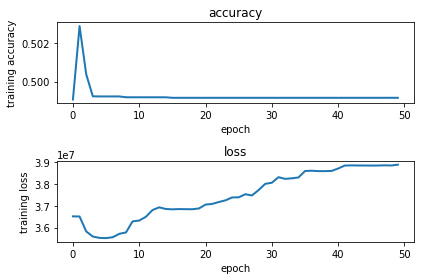
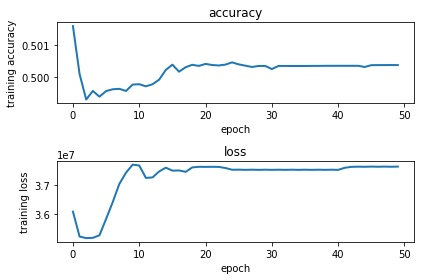
Add files via upload

diff --git a/Bi-Directional-RNN-with-loss-function/train_bi_with_loss_function.py b/Bi-Directional-RNN-with-loss-function/train_bi_with_loss_function.py
@@ -16,7 +16,7 @@ sys.path.append('../Datagenerator')
 from datagenerator2 import DataGenerator2
 
 #list of training data files   
-pkl_list = ['../Data/train' + str(i) + '.pkl' for i in range(1, 2)]
+pkl_list = ['../Data/train' + str(i) + '.pkl' for i in range(1, 3)]
 
 # generator for training set and validation set
 data_generator = DataGenerator2(pkl_list)
@@ -77,8 +77,6 @@ X = tf.placeholder(tf.float32, shape=[None, frames_per_sample, n_features], name
 #Y = tf.placeholder(tf.float32, shape=[(batch_size * frames_per_sample), n_classes], name="labels")
 Y = tf.placeholder(tf.float32, shape=[(batch_size * frames_per_sample), n_classes, 2], name="labels")
 
-VAD = tf.placeholder(tf.float32, shape=[None, frames_per_sample, n_features], name="VAD")
-
 #%% Layer 1
 
 #Create lstm cell with n hidden neurons
@@ -121,34 +119,19 @@ a = tf.nn.sigmoid((tf.matmul(out_concate, W0)+b0), name="activationOutputLayer")
 reshaped_emb = tf.reshape(a, [-1, n_classes, embedding_dimension])
 
 # normalization before output
+# 6400 x 129 x 1
 normalized_emb = tf.nn.l2_normalize(reshaped_emb, 2)
 
 #%% Define Loss function
 
-# array with all outputs in a row
-# 825,600 (6400 * 129) x 1
-embedding_rs = tf.reshape(normalized_emb, shape=[-1, embedding_dimension])
-
-# array with all VAD outputs in a row
-# 825,600 (6400 * 129) x 1 array
-VAD_rs = tf.reshape(VAD, shape=[-1])
-
-# get only the embeddings with active VAD
-# Multiply embeddings by VAD array
-# returns # 825,600 (6400 * 129) x 1 array
-embedding_rsv = tf.transpose(tf.multiply(tf.transpose(embedding_rs), VAD_rs))
 #Reshape output array to (n_features * frames_per_sample) x (number of dimensions) array
 #returns a 64 x 12900 x 1 array
-embedding_v = tf.reshape(embedding_rsv, [-1, frames_per_sample * n_features, embedding_dimension])
- 
-# get the Y(speaker indicator function) with active VAD
-# reshape Y to 825,600 (64 * 129 * 100) x 2 (number of speakers)
-Y_rs = tf.reshape(Y, shape=[-1, 2])
-# Multiply Y by VAD array to get only Y with active voice
-Y_rsv = tf.transpose(tf.multiply(tf.transpose(Y_rs), VAD_rs))
+embedding_v = tf.reshape(normalized_emb, shape=[-1, frames_per_sample * n_features, embedding_dimension])
+
+# get the Y(speaker indicator function)
 #Reshape output array to (n_features * frames_per_sample) x (number of dimensions) array
 #returns a 64 x 12900 x 2 array
-Y_v = tf.reshape(Y_rsv, shape=[-1, frames_per_sample * n_features, 2])
+Y_v = tf.reshape(Y, shape=[-1, frames_per_sample * n_features, 2])
 
 # =============================================================================
 # fast computation format of the embedding loss function
@@ -191,6 +174,8 @@ train_step = optimizer.apply_gradients(gradients_and_vars)
 correct_prediction = tf.equal(tf.round(a), Y2_v1)
 #Accuracy determination
 accuracy = tf.reduce_mean(tf.cast(correct_prediction, tf.float32), name="Accuracy")
+
+
 
 
 #%% Run model
@@ -240,15 +225,9 @@ with tf.Session() as sess:
             tr_features = np.concatenate([np.reshape(item['Sample'], [1, frames_per_sample, n_features]) for item in data])
             
             # concatenate VAD arrays together to get (64, 100, 129) array
-            VAD_reshaped = (np.concatenate([np.reshape(item['VAD'], [1, frames_per_sample, n_features]) for item in data])).astype('int')
-            
-            # concatenate labels together to get (64, 100, 129) array
-            #Y_labels = (np.concatenate([np.reshape(np.asarray(item['Target'])[:,:,0], [1, frames_per_sample, n_features]) for item in data], axis=0)).astype(int)
-            #Y_labels = (np.concatenate([np.asarray(item['Target'])[:,:,0] for item in data], axis=0)).astype(int)
-            
             Y_labels = (np.concatenate([np.asarray(item['Target']) for item in data])).astype('int')
             
-            _, loss1, accuracy1, loss_batch_Y1_1, loss_batch_Y2_1 = sess.run([train_step, loss_batch, accuracy, loss_batch_Y1, loss_batch_Y2], feed_dict={X: tr_features, Y:Y_labels, VAD: VAD_reshaped})
+            _, loss1, accuracy1 = sess.run([train_step, loss_batch, accuracy], feed_dict={X: tr_features, Y:Y_labels})
             #Add loss and accuracy to intermediate array
             intermediate_loss.append(loss1)
             intermediate_accuracy.append(accuracy1)
@@ -272,6 +251,7 @@ end = time.time()
 print("Time elapsed (secs): %f"%(end - start))
 
 del start, end
+
     
 #%% remove variables
     
@@ -338,14 +318,17 @@ testdata = data_generator.CreateTrainingDataSpectrogram(wavfile1, wavfile2, samp
 
 #%% Create ibm from model
 
+# Get only active test features
+ts_features = testdata['Sample'][testdata['VAD']]
+
 #Get number of features variable
-n_features = np.shape(testdata['Sample'])[1]
+n_features = np.shape(ts_features)[1]
   
 #Previously saved model 
 model_checkpoint = "./model.chkpt"
 
 #Create array for storing IBM
-ibm = []
+ibm_list = []
 
 #create saver to save session
 saver = tf.train.Saver()
@@ -356,7 +339,7 @@ with tf.Session() as sess:
     saver.restore(sess, model_checkpoint)
         
     #get length of spectrogram for mixture signal
-    len_spec = testdata['Sample'].shape[0]
+    len_spec = ts_features.shape[0]
     k = 0
     
     #loop through spectrograms creating chunks of (frames_per_sample) time periods 
@@ -365,30 +348,30 @@ with tf.Session() as sess:
         #if have come to the end of the spectrogram, need to pad the rest of the spectrogram with 0s to get a 129x209 array
         if (k + frames_per_sample > len_spec):
             # Get remaining data
-            ts_features = testdata['Sample'][k:k + frames_per_sample, :]
+            x = ts_features[k:k + frames_per_sample, :]
             
             # get shape of current ts_features
-            current_len_spec = ts_features.shape[0]
+            current_len_spec = x.shape[0]
             
             # Pad ts_features so that it is the full size
-            ts_features = np.pad(ts_features, ((0, (frames_per_sample-current_len_spec)), (0, 0)), 'constant', constant_values=(0))
+            x = np.pad(x, ((0, (frames_per_sample-current_len_spec)), (0, 0)), 'constant', constant_values=(0))
             
             # reshape spectrogram for neural network
-            ts_features = np.reshape(ts_features, [1, frames_per_sample, n_features])
+            x = np.reshape(x, [1, frames_per_sample, n_features])
 
         else:
             # Get data
-            ts_features = np.reshape(testdata['Sample'][k:k + frames_per_sample, :], [1, frames_per_sample, n_features])
+            x = np.reshape(ts_features[k:k + frames_per_sample, :], [1, frames_per_sample, n_features])
                 
         # get inferred ibm using trained model
-        ibm_batch = sess.run([a], feed_dict={X: ts_features})
+        ibm_batch = sess.run([a], feed_dict={X: x})
         
         # append ibm from batch to previous ibms
         # if have come to the end of the spectrogram, only append relevant points and not padded points
         if (k + frames_per_sample > len_spec):
-            ibm.append(ibm_batch[0][0:current_len_spec,:])
+            ibm_list.append(ibm_batch[0][0:current_len_spec,:])
         else:
-            ibm.append(ibm_batch[0])
+            ibm_list.append(ibm_batch[0])
         
         #increment k to look at next n time points
         k = k + frames_per_sample
@@ -396,12 +379,21 @@ with tf.Session() as sess:
 
  
 #Convert list to array       
-ibm = np.concatenate([item for item in ibm], axis=0)
+ibm_array = np.concatenate([item for item in ibm_list], axis=0)
 
 #Round each point to 0 or 1
-ibm = (np.round(ibm, 0)).astype(int)
+ibm_array = (np.round(ibm_array, 0)).astype(int)
+
+#Add extra points to IBM where VAD is 0
+#Get index of all time points that have 0 activity
+vad = np.where(testdata['VAD'] == False)[0]
+#take index away from index points
+vad1 = np.subtract(vad, np.asarray(range(vad.shape[0])))
+#Use insert to insert extra columns into ibm where VAD is 0
+ibm = np.insert(ibm_array, vad1, 0, axis=0)
+
         
-del k, n_features, len_spec, current_len_spec
+del k, n_features, len_spec, current_len_spec, ibm_array, ibm_list
 
 #%% Show original mixture spectrogram and mask
 
